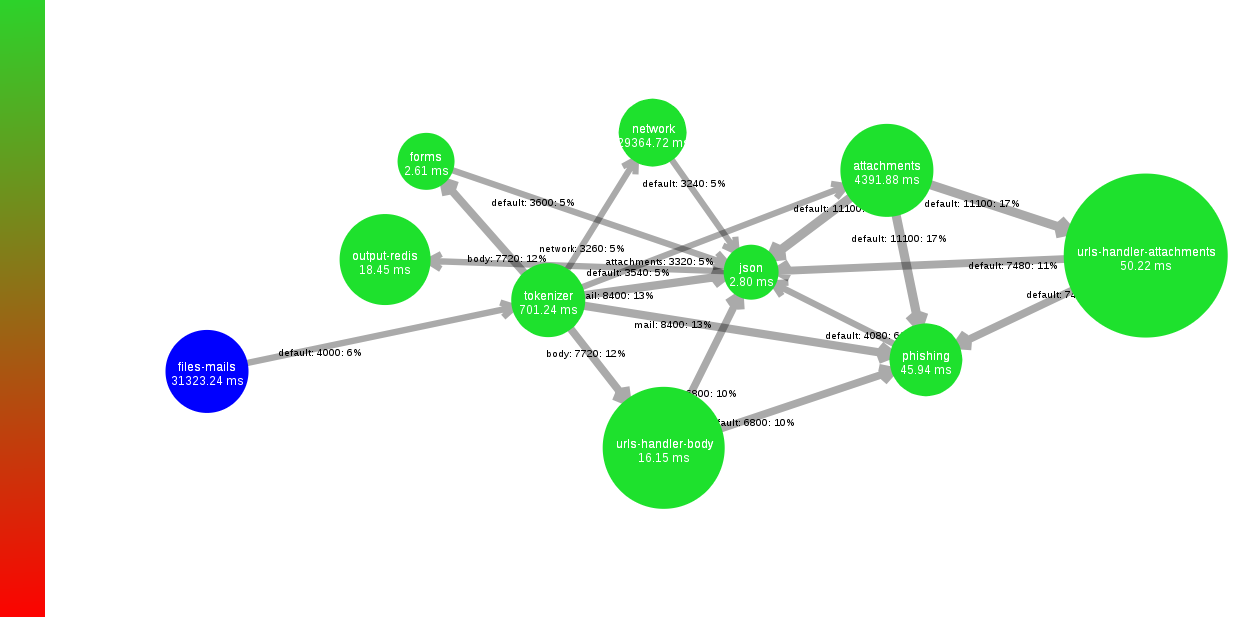
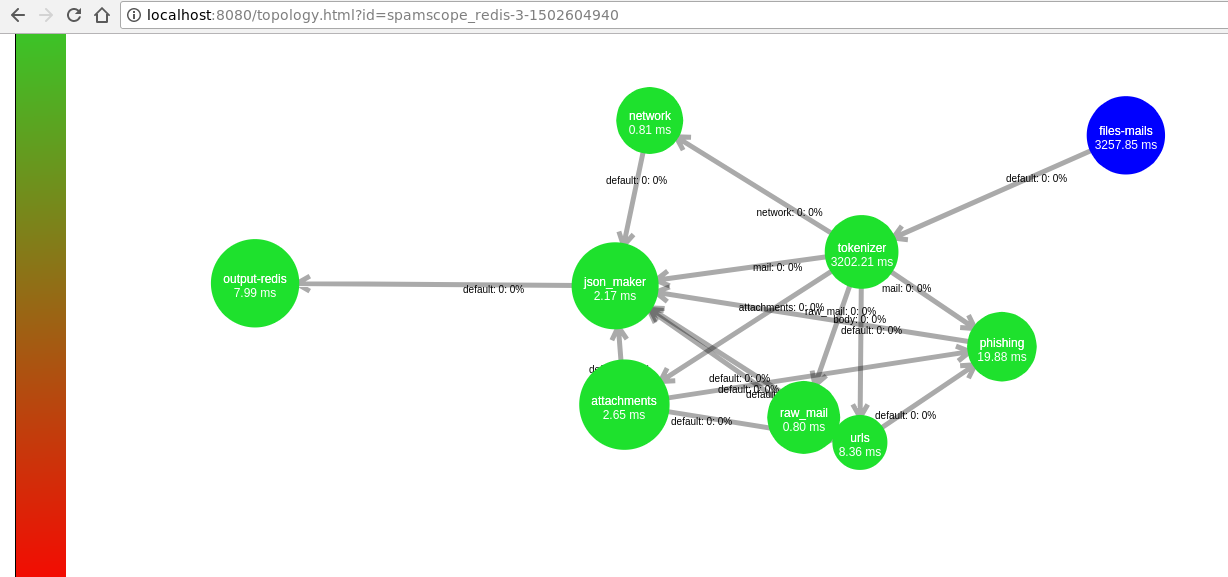
Resolved many bugs Rollback topologies with abstract Using only an instance of Faup to avoid warning messages New graphs

Changed region(s): [[0.1238, 0.156, 1.0, 0.8423], [0.0, 0.0, 1.0, 1.0]]

diff --git a/topologies/spamscope_elasticsearch.py b/topologies/spamscope_elasticsearch.py
@@ -18,12 +18,60 @@ limitations under the License.
 """
 
 
-from bolts import OutputElasticsearch
-from .abstracts import AbstractTopology
+from spouts import FilesMailSpout
+from bolts import (Attachments, JsonMaker, Phishing, Tokenizer,
+                   Urls, Network, RawMail, OutputElasticsearch)
+from streamparse import Grouping, Topology
 
 
-class OutputElasticsearchTopology(AbstractTopology):
+class OutputElasticsearchTopology(Topology):
+
+    files_spout = FilesMailSpout.spec(
+        name="files-mails")
+
+    tokenizer = Tokenizer.spec(
+        name="tokenizer",
+        inputs=[files_spout],
+        par=1)
+
+    attachments = Attachments.spec(
+        name="attachments",
+        inputs={tokenizer['attachments']: Grouping.fields('sha256_random')},
+        par=2)
+
+    urls = Urls.spec(
+        name="urls",
+        inputs={
+            attachments: Grouping.fields('sha256_random'),
+            tokenizer['body']: Grouping.fields('sha256_random')})
+
+    phishing = Phishing.spec(
+        name="phishing",
+        inputs={
+            attachments: Grouping.fields('sha256_random'),
+            tokenizer['mail']: Grouping.fields('sha256_random'),
+            urls: Grouping.fields('sha256_random')})
+
+    network = Network.spec(
+        name="network",
+        inputs={tokenizer['network']: Grouping.fields('sha256_random')},
+        par=2)
+
+    raw_mail = RawMail.spec(
+        name="raw_mail",
+        inputs={tokenizer['raw_mail']: Grouping.fields('sha256_random')},
+        par=2)
+
+    json_maker = JsonMaker.spec(
+        name="json_maker",
+        inputs={
+            attachments: Grouping.fields('sha256_random'),
+            network: Grouping.fields('sha256_random'),
+            phishing: Grouping.fields('sha256_random'),
+            raw_mail: Grouping.fields('sha256_random'),
+            tokenizer['mail']: Grouping.fields('sha256_random'),
+            urls: Grouping.fields('sha256_random')})
 
     output_elasticsearch = OutputElasticsearch.spec(
         name="output-elasticsearch",
-        inputs=[AbstractTopology().json_maker])
+        inputs=[json_maker])

diff --git a/tests/test_utils.py b/tests/test_utils.py
@@ -30,12 +30,14 @@ sys.path.append(root)
 import src.modules.utils as utils
 from mailparser import MailParser
 from src.modules.attachments import MailAttachments, fingerprints
+from pyfaup.faup import Faup
 
 text_files = os.path.join(base_path, 'samples', 'lorem_ipsum.txt')
 mail = os.path.join(base_path, 'samples', 'mail_thug')
 
 
 class TestSearchText(unittest.TestCase):
+    faup = Faup()
 
     def setUp(self):
         self.f = utils.reformat_output
@@ -315,7 +317,7 @@ class TestSearchText(unittest.TestCase):
                 http://contents.xn--90afavbplfx2a6a5b2a.xn--p1ai/
         """
 
-        urls = utils.urls_extractor(body)
+        urls = utils.urls_extractor(body, self.faup)
         self.assertIsInstance(urls, dict)
         self.assertIn("apache.org", urls)
         self.assertIn("python.org", urls)
@@ -325,7 +327,7 @@ class TestSearchText(unittest.TestCase):
             self.assertIsInstance(urls[i], list)
             self.assertEqual(len(urls[i]), 2)
 
-        urls = utils.urls_extractor(body_unicode_error)
+        urls = utils.urls_extractor(body_unicode_error, self.faup)
         self.assertIsInstance(urls, dict)
         self.assertIn("xn--90afavbplfx2a6a5b2a.xn--p1ai", urls)
         self.assertEqual(len(urls["xn--90afavbplfx2a6a5b2a.xn--p1ai"]), 1)
@@ -368,7 +370,7 @@ class TestSearchText(unittest.TestCase):
 
         d = {"generic": {"path": "conf/whitelists/generic.example.yml"}}
         whitelist = utils.load_whitelist(d)
-        urls = utils.text2urls_whitelisted(body, whitelist)
+        urls = utils.text2urls_whitelisted(body, whitelist, self.faup)
 
         self.assertIsInstance(urls, dict)
         self.assertNotIn("apache.org", urls)
@@ -391,7 +393,7 @@ class TestSearchText(unittest.TestCase):
 
         d = {"generic": {"path": "conf/whitelists/generic.example.yml"}}
         whitelist = utils.load_whitelist(d)
-        urls = utils.text2urls_whitelisted(body, whitelist)
+        urls = utils.text2urls_whitelisted(body, whitelist, self.faup)
         self.assertIsInstance(urls, dict)
 
         urls = utils.reformat_urls(urls)

diff --git a/topologies/spamscope_debug.py b/topologies/spamscope_debug.py
@@ -18,12 +18,60 @@ limitations under the License.
 """
 
 
-from bolts import OutputDebug
-from .abstracts import AbstractTopology
+from spouts import FilesMailSpout
+from bolts import (Attachments, JsonMaker, Phishing, Tokenizer,
+                   Urls, Network, RawMail, OutputDebug)
+from streamparse import Grouping, Topology
 
 
-class OutputDebugTopology(AbstractTopology):
+class OutputDebugTopology(Topology):
+
+    files_spout = FilesMailSpout.spec(
+        name="files-mails")
+
+    tokenizer = Tokenizer.spec(
+        name="tokenizer",
+        inputs=[files_spout],
+        par=1)
+
+    attachments = Attachments.spec(
+        name="attachments",
+        inputs={tokenizer['attachments']: Grouping.fields('sha256_random')},
+        par=2)
+
+    urls = Urls.spec(
+        name="urls",
+        inputs={
+            attachments: Grouping.fields('sha256_random'),
+            tokenizer['body']: Grouping.fields('sha256_random')})
+
+    phishing = Phishing.spec(
+        name="phishing",
+        inputs={
+            attachments: Grouping.fields('sha256_random'),
+            tokenizer['mail']: Grouping.fields('sha256_random'),
+            urls: Grouping.fields('sha256_random')})
+
+    network = Network.spec(
+        name="network",
+        inputs={tokenizer['network']: Grouping.fields('sha256_random')},
+        par=2)
+
+    raw_mail = RawMail.spec(
+        name="raw_mail",
+        inputs={tokenizer['raw_mail']: Grouping.fields('sha256_random')},
+        par=2)
+
+    json_maker = JsonMaker.spec(
+        name="json_maker",
+        inputs={
+            attachments: Grouping.fields('sha256_random'),
+            network: Grouping.fields('sha256_random'),
+            phishing: Grouping.fields('sha256_random'),
+            raw_mail: Grouping.fields('sha256_random'),
+            tokenizer['mail']: Grouping.fields('sha256_random'),
+            urls: Grouping.fields('sha256_random')})
 
     output_debug = OutputDebug.spec(
         name="output-debug",
-        inputs=[AbstractTopology().json_maker])
+        inputs=[json_maker])

diff --git a/topologies/spamscope_redis.py b/topologies/spamscope_redis.py
@@ -18,12 +18,60 @@ limitations under the License.
 """
 
 
-from bolts import OutputRedis
-from .abstracts import AbstractTopology
+from spouts import FilesMailSpout
+from bolts import (Attachments, JsonMaker, Phishing, Tokenizer,
+                   Urls, Network, RawMail, OutputRedis)
+from streamparse import Grouping, Topology
 
 
-class OutputRedisTopology(AbstractTopology):
+class OutputRedisTopology(Topology):
+
+    files_spout = FilesMailSpout.spec(
+        name="files-mails")
+
+    tokenizer = Tokenizer.spec(
+        name="tokenizer",
+        inputs=[files_spout],
+        par=1)
+
+    attachments = Attachments.spec(
+        name="attachments",
+        inputs={tokenizer['attachments']: Grouping.fields('sha256_random')},
+        par=2)
+
+    urls = Urls.spec(
+        name="urls",
+        inputs={
+            attachments: Grouping.fields('sha256_random'),
+            tokenizer['body']: Grouping.fields('sha256_random')})
+
+    phishing = Phishing.spec(
+        name="phishing",
+        inputs={
+            attachments: Grouping.fields('sha256_random'),
+            tokenizer['mail']: Grouping.fields('sha256_random'),
+            urls: Grouping.fields('sha256_random')})
+
+    network = Network.spec(
+        name="network",
+        inputs={tokenizer['network']: Grouping.fields('sha256_random')},
+        par=2)
+
+    raw_mail = RawMail.spec(
+        name="raw_mail",
+        inputs={tokenizer['raw_mail']: Grouping.fields('sha256_random')},
+        par=2)
+
+    json_maker = JsonMaker.spec(
+        name="json_maker",
+        inputs={
+            attachments: Grouping.fields('sha256_random'),
+            network: Grouping.fields('sha256_random'),
+            phishing: Grouping.fields('sha256_random'),
+            raw_mail: Grouping.fields('sha256_random'),
+            tokenizer['mail']: Grouping.fields('sha256_random'),
+            urls: Grouping.fields('sha256_random')})
 
     output_redis = OutputRedis.spec(
         name="output-redis",
-        inputs=[AbstractTopology().json_maker])
+        inputs=[json_maker])

diff --git a/src/bolts/urls.py b/src/bolts/urls.py
@@ -19,6 +19,8 @@ limitations under the License.
 
 from __future__ import absolute_import, print_function, unicode_literals
 
+from pyfaup.faup import Faup
+
 from modules import AbstractBolt, load_whitelist, text2urls_whitelisted
 from modules.attachments import MailAttachments
 
@@ -28,6 +30,9 @@ class Urls(AbstractBolt):
 
     def initialize(self, stormconf, context):
         super(Urls, self).initialize(stormconf, context)
+
+        # Faup
+        self.faup = Faup()
 
         # Input bolts for Phishing bolt
         self.input_bolts = set(context["source->stream->grouping"].keys())
@@ -53,14 +58,14 @@ class Urls(AbstractBolt):
         # urls body
         if not is_filtered:
             text = greedy_data["tokenizer"][1]
-            urls = text2urls_whitelisted(text, self.whitelists)
+            urls = text2urls_whitelisted(text, self.whitelists, self.faup)
             if urls:
                 results["body"] = urls
 
         # I can have 2 mails with same body, but with different attachments
         attachments = MailAttachments(greedy_data["attachments"][2])
         text = attachments.payloadstext()
-        urls = text2urls_whitelisted(text, self.whitelists)
+        urls = text2urls_whitelisted(text, self.whitelists, self.faup)
         if urls:
             results["attachments"] = urls
 

diff --git a/src/modules/utils.py b/src/modules/utils.py
@@ -26,7 +26,6 @@ import os
 import re
 import tempfile
 
-from pyfaup.faup import Faup
 import six
 import yaml
 
@@ -94,7 +93,7 @@ def write_payload(payload, extension, content_transfer_encoding="base64"):
     return temp
 
 
-def urls_extractor(text):
+def urls_extractor(text, faup):
     """This function extract all url http(s) and ftp(s) from text.
 
     Args:
@@ -121,7 +120,7 @@ def urls_extractor(text):
             }
     """
 
-    faup = Faup()
+    # faup = Faup()
     text = six.text_type(text)
     results = {}
 
@@ -397,7 +396,7 @@ def load_whitelist(whitelists):
     return whitelist
 
 
-def text2urls_whitelisted(text, whitelist):
+def text2urls_whitelisted(text, whitelist, faup):
     """
     Given text and whitelist return all urls in text not in
     whitelist (domains whitelist).
@@ -414,7 +413,7 @@ def text2urls_whitelisted(text, whitelist):
     urls = {}
 
     if text:
-        urls = urls_extractor(text)
+        urls = urls_extractor(text, faup)
         domains = urls.keys()
 
         for d in domains:

diff --git a/tests/test_phishing.py b/tests/test_phishing.py
@@ -29,12 +29,14 @@ sys.path.append(root)
 
 import src.modules.mails.phishing as phishing
 import src.modules.utils as utils
+from pyfaup.faup import Faup
 
 mail_thug = os.path.join(base_path, 'samples', 'mail_thug')
 mail_form = os.path.join(base_path, 'samples', 'mail_form')
 
 
 class TestPhishing(unittest.TestCase):
+    faup = Faup()
 
     def setUp(self):
         parser = mailparser.parse_from_file(mail_thug)
@@ -45,7 +47,7 @@ class TestPhishing(unittest.TestCase):
         self.email_form = parser.parsed_mail_obj
 
         body = self.email_form.get("body")
-        self.urls = utils.urls_extractor(body)
+        self.urls = utils.urls_extractor(body, self.faup)
 
         d = {"generic": "conf/keywords/targets.example.yml",
              "custom": "conf/keywords/targets_english.example.yml"}

diff --git a/src/bolts/phishing.py b/src/bolts/phishing.py
@@ -61,8 +61,8 @@ class Phishing(AbstractBolt):
             # Get all data
             email = greedy_data["tokenizer"][1]
             attachments = greedy_data["attachments"][2]
-            urls_body = greedy_data["urls"]["body"][1]
-            urls_attachments = greedy_data["urls"]["attachments"][1]
+            urls_body = greedy_data["urls"][1].get("body", {})
+            urls_attachments = greedy_data["urls"][1].get("attachments", {})
 
             results = check_phishing(
                 email=email,

diff --git a/src/modules/mails/__init__.py b/src/modules/mails/__init__.py
@@ -15,3 +15,4 @@ limitations under the License.
 """
 
 from .post_processing import processors, spamassassin
+from .phishing import check_form, check_urls, check_phishing
